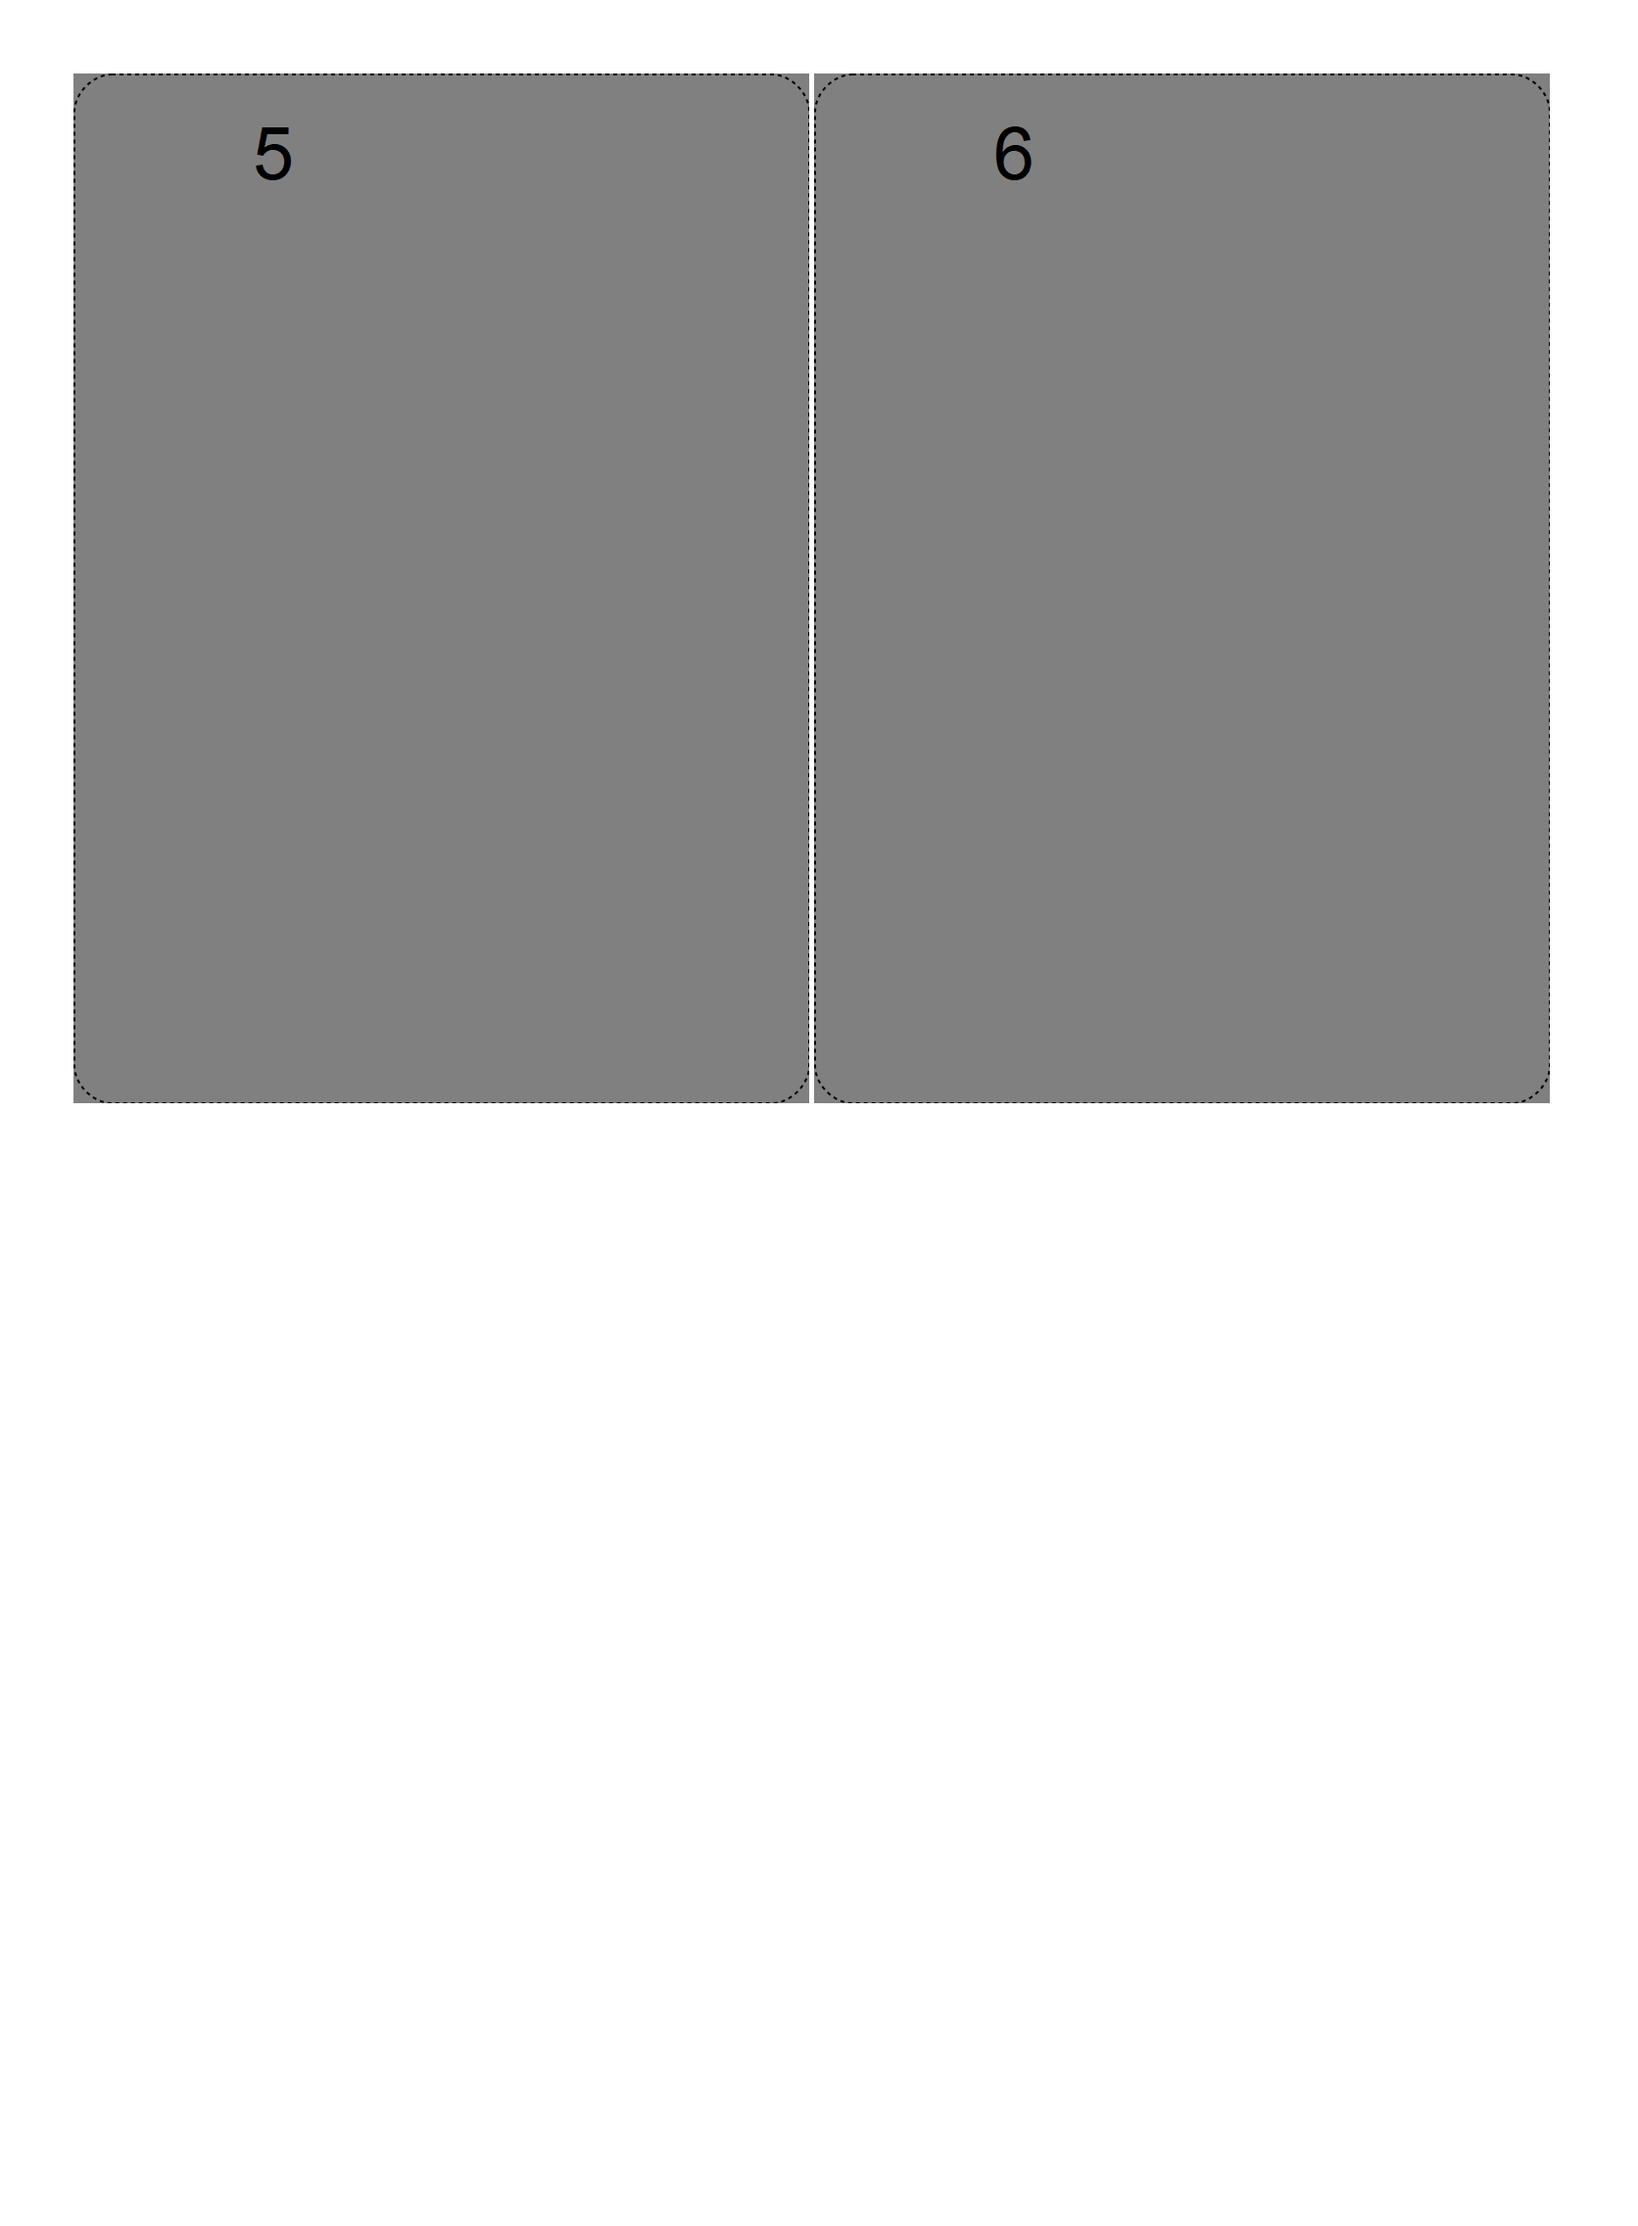
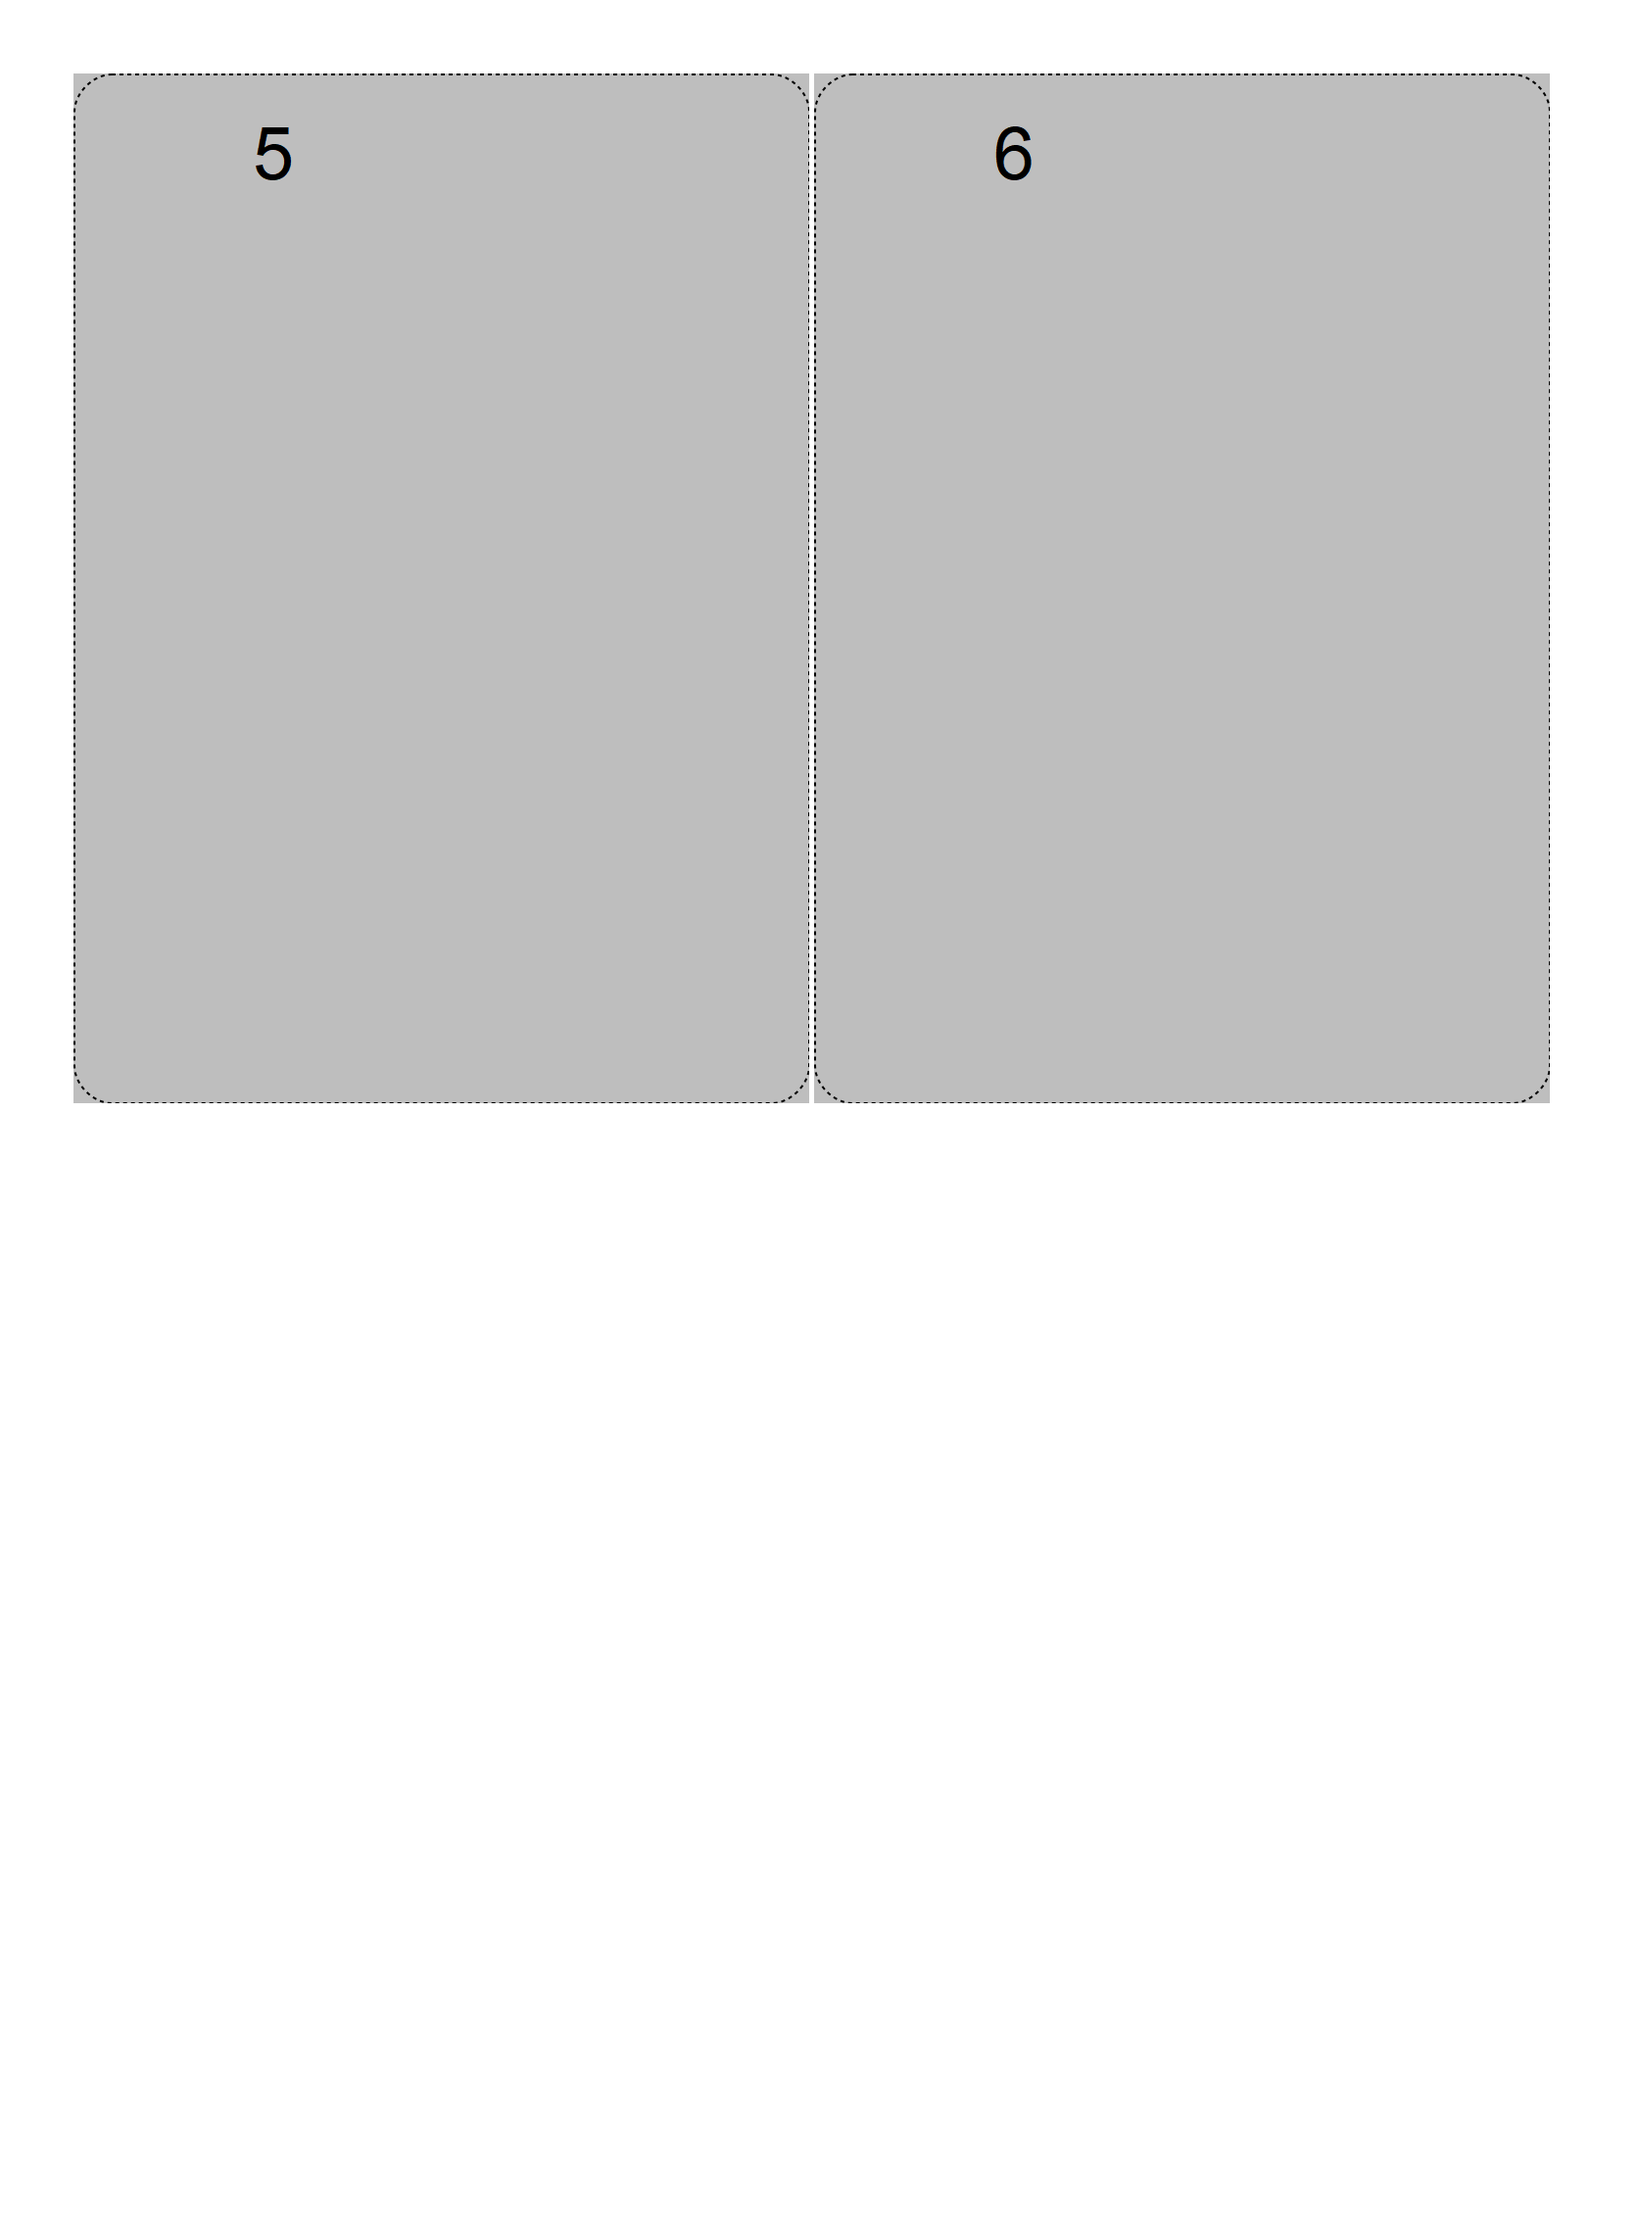
colors: update sanity tests for new colors

diff --git a/samples/colors/_colors.rb b/samples/colors/_colors.rb
@@ -19,17 +19,23 @@ Squib::Deck.new(width: 825, height: 1125, cards: 1) do
 end
 
 # This script generates a table of the built-in constants
-Squib::Deck.new(width: 3000, height: 1500) do
+colors = (Cairo::Color.constants - %i(HEX_RE Base RGB CMYK HSV X11))
+colors.sort_by! do |c|
+  hsv = Cairo::Color.parse(c).to_hsv
+  [(hsv.hue / 16.0).to_i, hsv.value, hsv.saturation]
+end
+w, h = 300, 50
+deck_height = 4000
+deck_width = (colors.size / ((deck_height / h) + 1)) * w
+Squib::Deck.new(width: deck_width, height: deck_height) do
   background color: :white
-  colors = (Cairo::Color.constants - %i(HEX_RE Base RGB CMYK HSV X11))
-  colors.sort_by! {|c| Cairo::Color.parse(c).to_s}
-  x, y, w, h = 0, 0, 300, 50
+  x, y = 0, 0
   colors.each_with_index do |color, i|
     rect x: x, y: y, width: w, height: h, fill_color: color
     text str: color.to_s, x: x + 5, y: y + 13, font: 'Sans Bold 5',
          color: (Cairo::Color.parse(color).to_hsv.v > 0.9) ? '#000' : '#fff'
     y += h
-    if y > @height
+    if y > deck_height
       x += w
       y = 0
     end

diff --git a/CHANGELOG.md b/CHANGELOG.md
@@ -13,6 +13,9 @@ Docs:
 Chores:
 * Bumped deps: Pango et al. to 3.3.6, Cairo to 1.16.4, Nokogiri to 1.10.3
 
+Compatibility:
+* A LOT more pre-defined colors built into Cairo. Some of the named colors got redefined with the upgrade to the latest Cairo. This means that named colors like `:gray` and `:green` may look slightly different.
+
 Special thanks to @lcarlsen
 
 ## v0.14.2 / 2018-08-01
